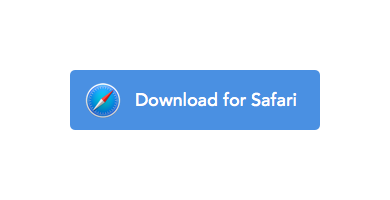
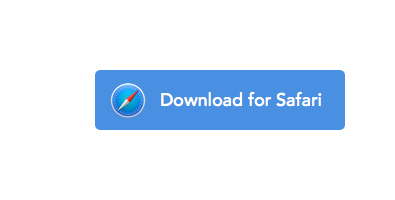
update readme

Changed region(s): [[0.1538, 0.33, 0.8923, 0.66]]

diff --git a/README.md b/README.md
@@ -1,9 +1,4 @@
 ![readme.jpg](readme.jpg)
 
-
-
-<p align="center">
-    <a href="https://github.com/RayPS/Add-to-Inboard/blob/master/Add%20to%20Inboard.safariextz?raw=true">
-       <img src="safari.png" alt="Download for Safari">
-    </a>
-</p>
+[![Download for Safari](safari.png)](https://github.com/RayPS/Add-to-Inboard/blob/master/Add%20to%20Inboard.safariextz?raw=true)
+[![Download for Chrome](chrome.png)](https://github.com/RayPS/Add-to-Inboard/blob/master/Add%20to%20Inboard.crx?raw=true)
